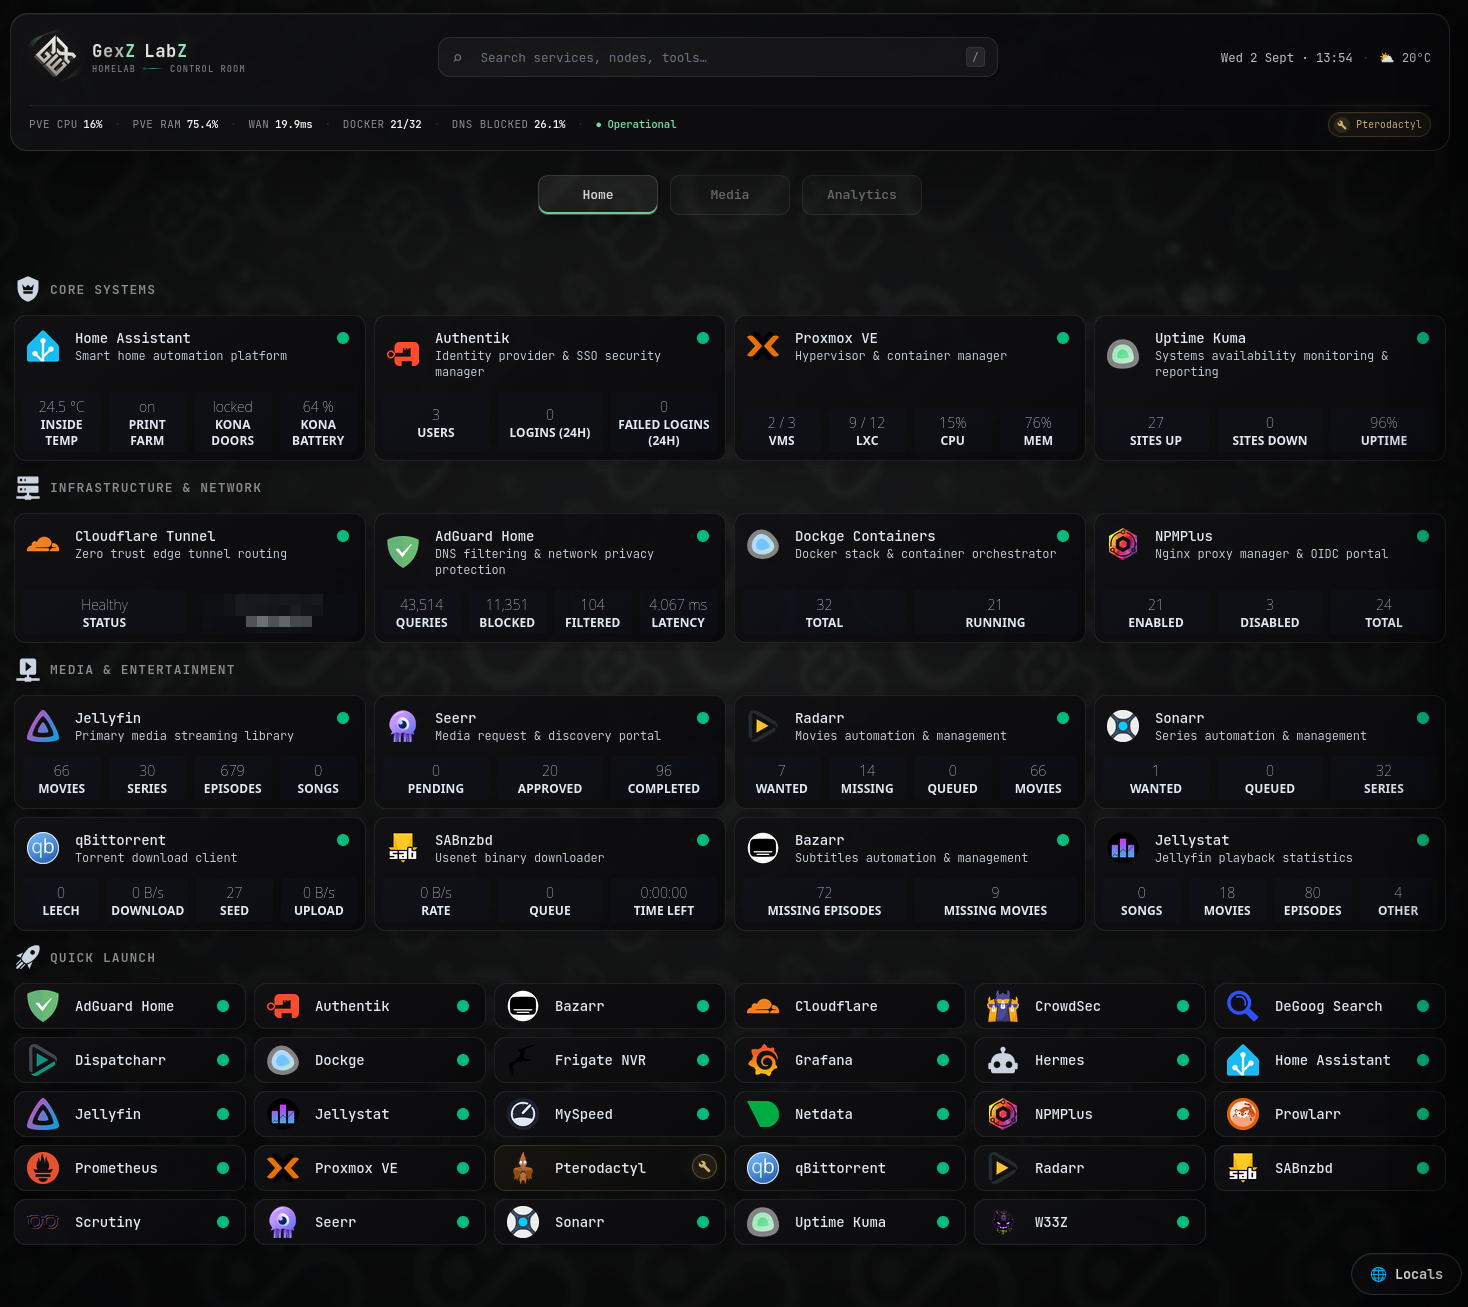
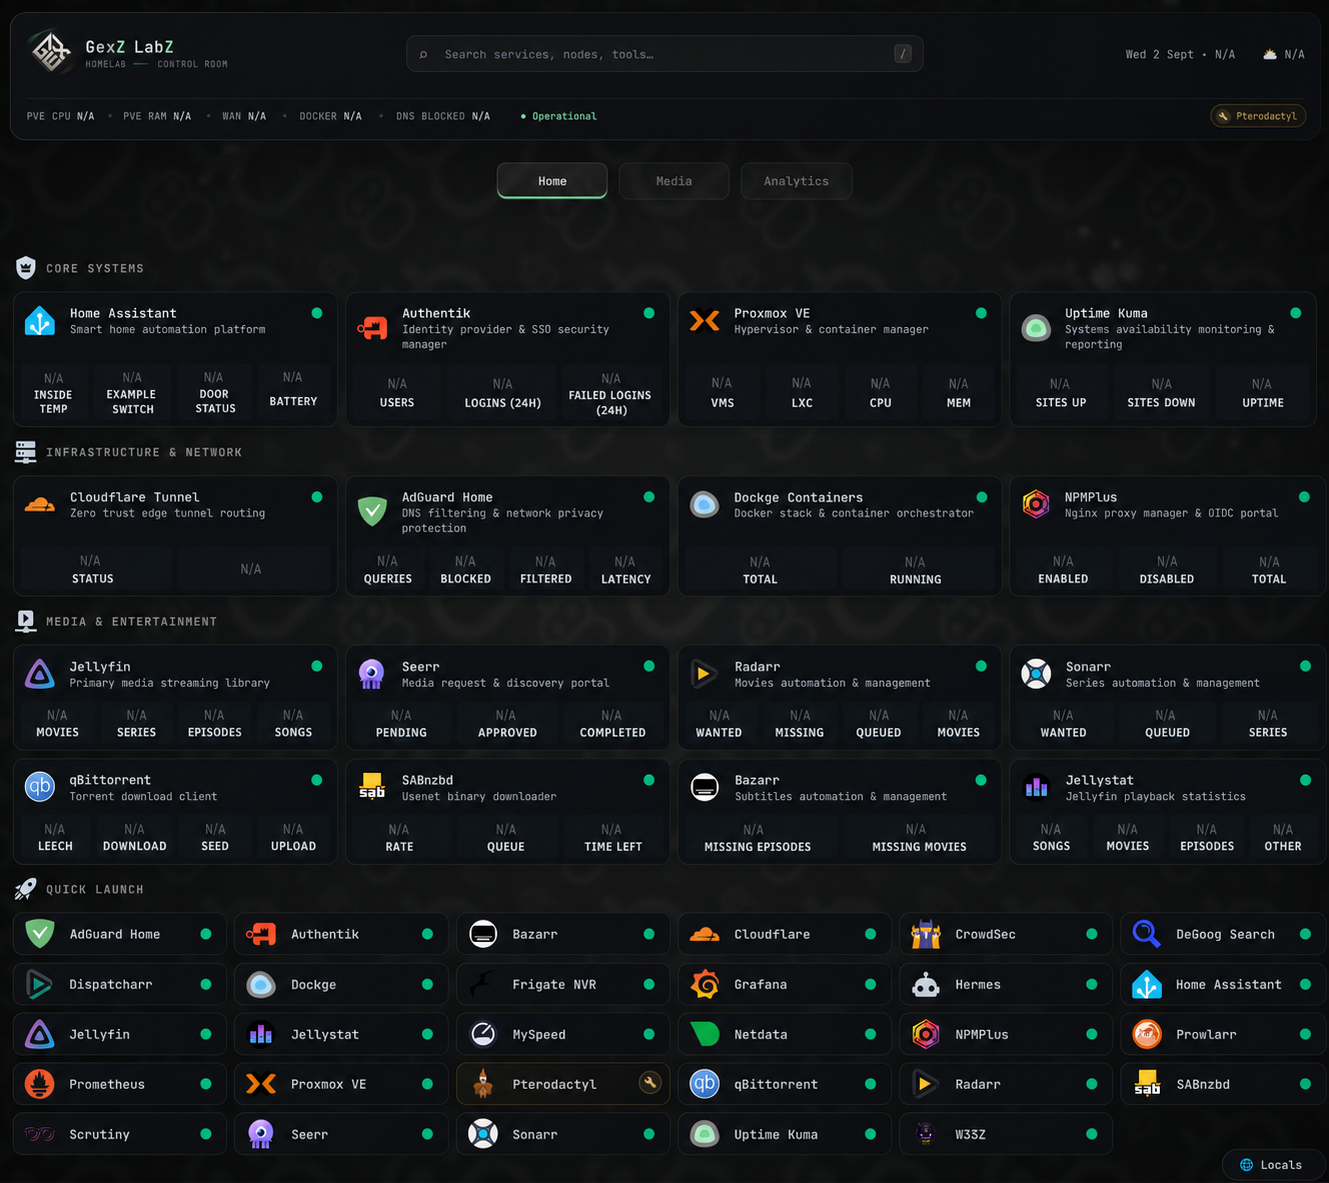
Use sanitized Homepage screenshot

diff --git a/README.md b/README.md
@@ -5,7 +5,7 @@ A heavily customized [Homepage](https://gethomepage.dev/) dashboard for a self-h
 > This repository is a sanitized public reference. It contains no production credentials, addresses, hostnames, device identifiers, logs, backups, or live screenshots.
 
 <p align="center">
-  <img src="screenshots/dashboard-preview.svg" alt="Sanitized GexZ LabZ Homepage preview" width="1100">
+  <img src="screenshots/Home.png" alt="Sanitized GexZ LabZ Homepage preview" width="1100">
 </p>
 
 ## What is included
